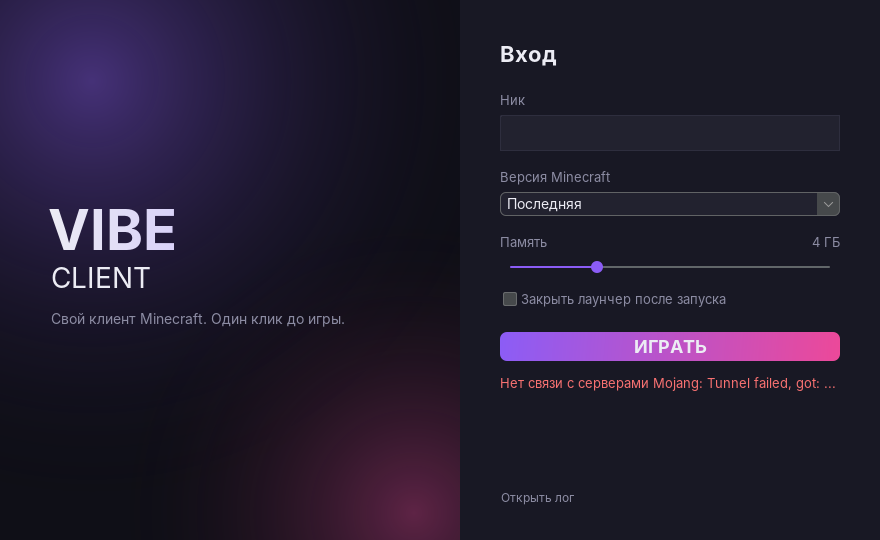
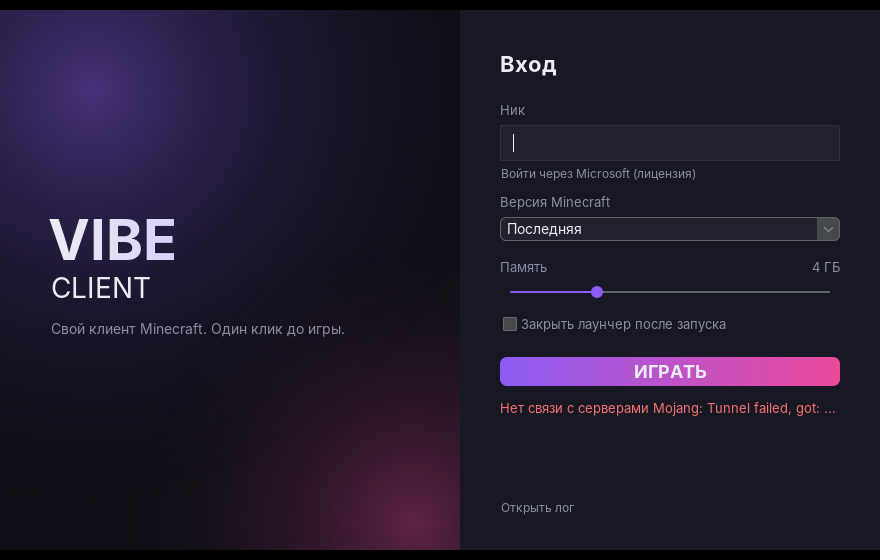
Document Microsoft login and client
Claude-Session: https://claude.ai/code/session_01R1NH6zHyBiajTj7KsTRArw

diff --git a/README.md b/README.md
@@ -25,7 +25,16 @@
 | macOS | `~/Library/Application Support/vibeclient` |
 | Linux | `~/.vibeclient` |
 
-Пока поддерживается только офлайн-аккаунт (одиночная игра и сервера без лицензии). Вход через Microsoft добавим отдельно.
+### Аккаунты
+
+- **По нику (офлайн)**: одиночная игра и сервера без лицензии.
+- **Microsoft (лицензия)**: кнопка «Войти через Microsoft». Нужен свой client id приложения Azure:
+  1. Зарегистрируй приложение на portal.azure.com (App registrations), тип аккаунтов «Personal Microsoft accounts only»,
+     включи «Allow public client flows».
+  2. Подай заявку Mojang на доступ к Minecraft API для этого приложения (форма по ссылке в
+     [Minecraft Help](https://help.minecraft.net/hc/en-us/articles/16254801392141)). Без одобрения вход
+     дойдёт до последнего шага и получит отказ.
+  3. Впиши client id в `settings.json` лаунчера (`"msClientId": "..."`) или передай `-Dvibe.msClientId=...`.
 
 ### Сборка
 
@@ -43,5 +52,18 @@ java -jar VibeLauncher.jar --cli --name Steve [--version 1.21.10] [--memory 4096
 
 ## Клиент
 
-В разработке. Готовый jar клиента вшивается в лаунчер как ресурс `client/vibe-client.jar`
-и при каждом запуске копируется в папку `mods`.
+Папка `client/`. Minecraft 26.3, Fabric. Собственный код, без чужих исходников.
+
+- HUD: FPS, координаты с направлением, CPS, нажатые клавиши, часы.
+- Авто-бег.
+- Меню на **Right Shift**: включение модулей и перетаскивание HUD мышью. Настройки в `config/vibe-client.json`.
+- «Vibe Client» в заголовке окна и на главном экране.
+
+Собранный клиент вшивается в лаунчер (`client/vibe-client.jar`) и при каждом запуске копируется в `mods`.
+
+Версии игры, Fabric и Fabric API лежат в `gradle.properties`.
+
+## Сборка в GitHub Actions
+
+Каждый push собирает лаунчер и клиент, запускает игру в виртуальном экране для проверки
+и выкладывает `VibeLauncher.jar` в артефакты сборки (вкладка Actions).
